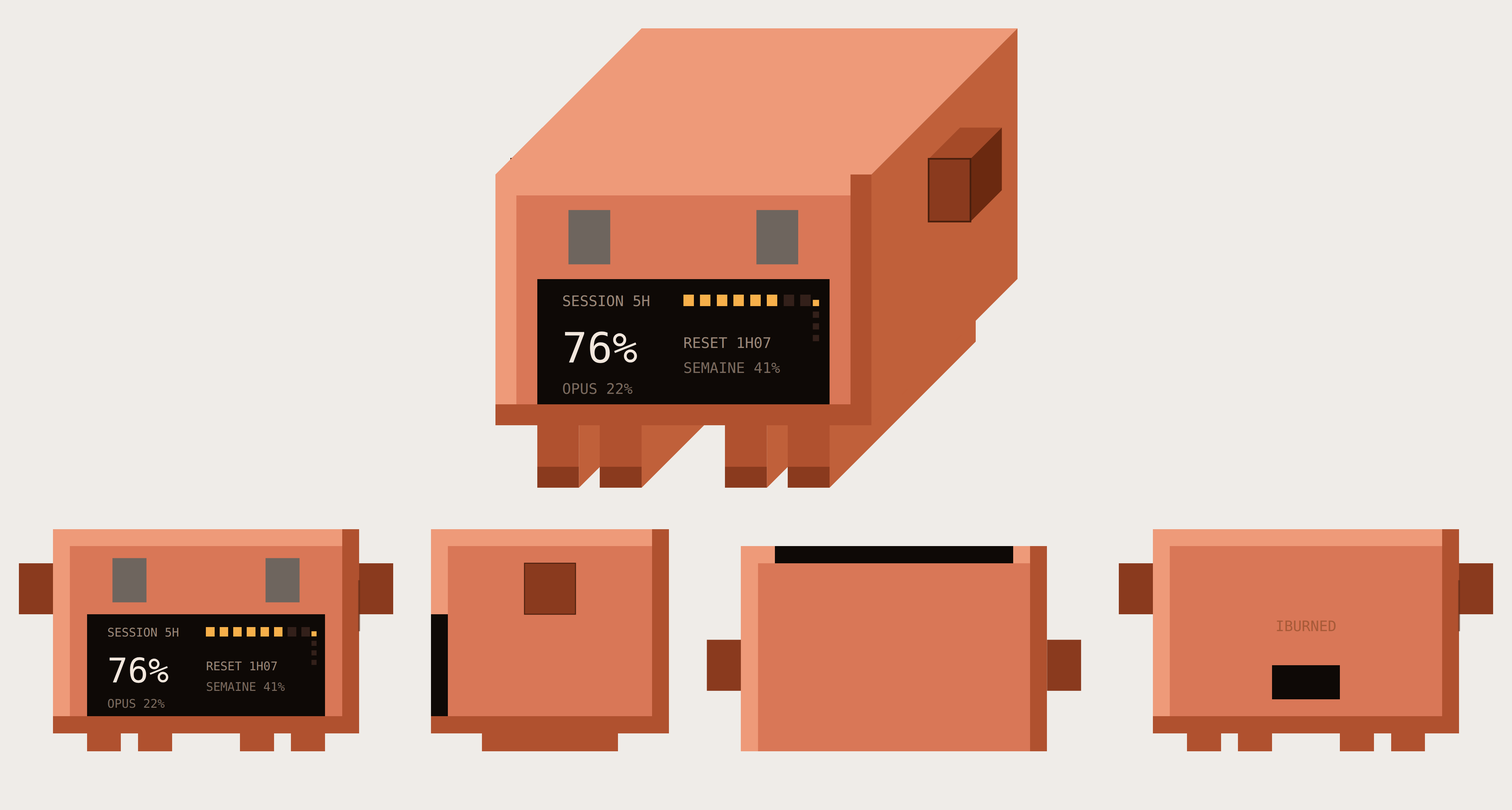
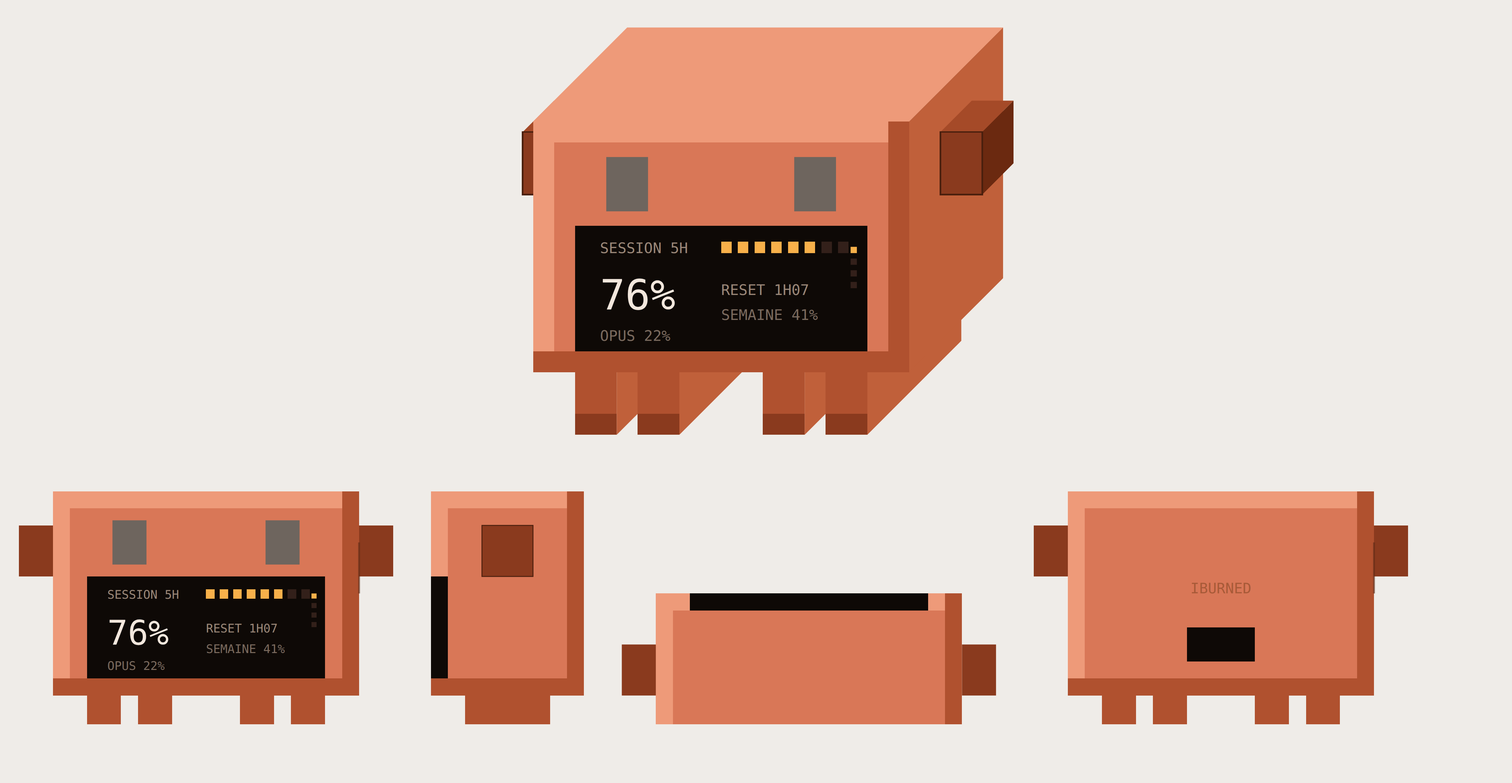
Réduit la profondeur du boîtier d'un tiers
La profondeur passe de 14 à 9 cellules, soit 40 mm au lieu de 62.
Gabarit : 97 x 66 x 40 mm.

Effet de bord bienvenu : les ergots, toujours de 3 cellules, tombent
désormais pile au milieu de l'épaisseur sur un compte entier — 13,2 mm
devant, 13,2 mm derrière.

Profil, dessus, vue trois-quarts et vues de référence PNG régénérés.

Claude-Session: https://claude.ai/code/session_01T2Dn2UuCsd1vZtre48fBsz

diff --git a/design/boitier/ecran-ventre.html b/design/boitier/ecran-ventre.html
@@ -265,7 +265,7 @@
       <div><dt class="mono">Planche</dt><dd>03 / 03</dd></div>
       <div><dt class="mono">Nature</dt><dd>Direction retenue</dd></div>
       <div><dt class="mono">Trame</dt><dd>22 × 15 px</dd></div>
-      <div><dt class="mono">Gabarit</dt><dd>97 × 66 × 62 mm</dd></div>
+      <div><dt class="mono">Gabarit</dt><dd>97 × 66 × 40 mm</dd></div>
       <div><dt class="mono">Date</dt><dd>10.09.2026</dd></div>
       <div><dt class="mono">Étape suivante</dt><dd>Maquette blanche</dd></div>
     </dl>
@@ -280,7 +280,7 @@
 
   <figure class="stage hero">
     <svg class="render" viewBox="0 0 440 332" role="img" aria-label="Vue trois-quarts du boîtier : bloc terracotta à arêtes vives, deux yeux gris foncé en haut, grand écran occupant le bas de la face avant, quatre pattes courtes, deux ergots latéraux identiques.">
-      <polygon class="eye" points="82,260 173,169 199,169 108,260" fill="#EE9A79"/><polygon class="eye" points="108,260 199,169 199,208 108,299" fill="#C0603A"/><polygon class="eye" points="121,260 212,169 238,169 147,260" fill="#EE9A79"/><polygon class="eye" points="147,260 238,169 238,208 147,299" fill="#C0603A"/><polygon class="eye" points="199,260 290,169 316,169 225,260" fill="#EE9A79"/><polygon class="eye" points="225,260 316,169 316,208 225,299" fill="#C0603A"/><polygon class="eye" points="238,260 329,169 355,169 264,260" fill="#EE9A79"/><polygon class="eye" points="264,260 355,169 355,208 264,299" fill="#C0603A"/><polygon class="eye" points="65.75,94.25 85.25,74.75 111.25,74.75 91.75,94.25" fill="#A54A28"/><polygon class="eye" points="91.75,94.25 111.25,74.75 111.25,113.75 91.75,133.25" fill="#6B2910"/><rect x="65.75" y="94.25" width="26" height="39" fill="#8A3A1E" stroke="#4A1F0D"/><polygon class="eye" points="56,104 147,13 381,13 290,104" fill="#EE9A79"/><polygon class="eye" points="290,104 381,13 381,169 290,260" fill="#C0603A"/><rect x="56" y="104" width="221" height="13" fill="#EE9A79"/><rect x="277" y="104" width="13" height="13" fill="#B0512F"/><rect x="56" y="117" width="13" height="13" fill="#EE9A79"/><rect x="69" y="117" width="208" height="13" fill="#D97757"/><rect x="277" y="117" width="13" height="13" fill="#B0512F"/><rect x="56" y="130" width="13" height="13" fill="#EE9A79"/><rect x="69" y="130" width="208" height="13" fill="#D97757"/><rect x="277" y="130" width="13" height="13" fill="#B0512F"/><rect x="56" y="143" width="13" height="13" fill="#EE9A79"/><rect x="69" y="143" width="208" height="13" fill="#D97757"/><rect x="277" y="143" width="13" height="13" fill="#B0512F"/><rect x="56" y="156" width="13" height="13" fill="#EE9A79"/><rect x="69" y="156" width="208" height="13" fill="#D97757"/><rect x="277" y="156" width="13" height="13" fill="#B0512F"/><rect x="56" y="169" width="13" height="13" fill="#EE9A79"/><rect x="69" y="169" width="13" height="13" fill="#D97757"/><rect x="82" y="169" width="182" height="13" fill="#0E0906"/><rect x="264" y="169" width="13" height="13" fill="#D97757"/><rect x="277" y="169" width="13" height="13" fill="#B0512F"/><rect x="56" y="182" width="13" height="13" fill="#EE9A79"/><rect x="69" y="182" width="13" height="13" fill="#D97757"/><rect x="82" y="182" width="182" height="13" fill="#0E0906"/><rect x="264" y="182" width="13" height="13" fill="#D97757"/><rect x="277" y="182" width="13" height="13" fill="#B0512F"/><rect x="56" y="195" width="13" height="13" fill="#EE9A79"/><rect x="69" y="195" width="13" height="13" fill="#D97757"/><rect x="82" y="195" width="182" height="13" fill="#0E0906"/><rect x="264" y="195" width="13" height="13" fill="#D97757"/><rect x="277" y="195" width="13" height="13" fill="#B0512F"/><rect x="56" y="208" width="13" height="13" fill="#EE9A79"/><rect x="69" y="208" width="13" height="13" fill="#D97757"/><rect x="82" y="208" width="182" height="13" fill="#0E0906"/><rect x="264" y="208" width="13" height="13" fill="#D97757"/><rect x="277" y="208" width="13" height="13" fill="#B0512F"/><rect x="56" y="221" width="13" height="13" fill="#EE9A79"/><rect x="69" y="221" width="13" height="13" fill="#D97757"/><rect x="82" y="221" width="182" height="13" fill="#0E0906"/><rect x="264" y="221" width="13" height="13" fill="#D97757"/><rect x="277" y="221" width="13" height="13" fill="#B0512F"/><rect x="56" y="234" width="13" height="13" fill="#EE9A79"/><rect x="69" y="234" width="13" height="13" fill="#D97757"/><rect x="82" y="234" width="182" height="13" fill="#0E0906"/><rect x="264" y="234" width="13" height="13" fill="#D97757"/><rect x="277" y="234" width="13" height="13" fill="#B0512F"/><rect x="56" y="247" width="234" height="13" fill="#B0512F"/><rect x="82" y="260" width="26" height="13" fill="#B0512F"/><rect x="121" y="260" width="26" height="13" fill="#B0512F"/><rect x="199" y="260" width="26" height="13" fill="#B0512F"/><rect x="238" y="260" width="26" height="13" fill="#B0512F"/><rect x="82" y="273" width="26" height="13" fill="#B0512F"/><rect x="121" y="273" width="26" height="13" fill="#B0512F"/><rect x="199" y="273" width="26" height="13" fill="#B0512F"/><rect x="238" y="273" width="26" height="13" fill="#B0512F"/><rect x="82" y="286" width="26" height="13" fill="#8A3A1E"/><rect x="121" y="286" width="26" height="13" fill="#8A3A1E"/><rect x="199" y="286" width="26" height="13" fill="#8A3A1E"/><rect x="238" y="286" width="26" height="13" fill="#8A3A1E"/><polygon class="eye" points="325.75,94.25 345.25,74.75 371.25,74.75 351.75,94.25" fill="#A54A28"/><polygon class="eye" points="351.75,94.25 371.25,74.75 371.25,113.75 351.75,133.25" fill="#6B2910"/><rect x="325.75" y="94.25" width="26" height="39" fill="#8A3A1E" stroke="#4A1F0D"/><rect class="eye" x="101.5" y="126.1" width="26" height="33.8" fill="#6E655E"/><rect class="eye" x="218.5" y="126.1" width="26" height="33.8" fill="#6E655E"/><text class="px" x="97.6" y="185.9" font-size="9.1" fill="#9A8778" text-anchor="start">SESSION 5H</text><text class="px" x="97.6" y="221" font-size="26" fill="#F2E7DD" text-anchor="start">76%</text><rect x="173" y="178.75" width="6.5" height="7.15" fill="#F7B04A"/><rect x="183.4" y="178.75" width="6.5" height="7.15" fill="#F7B04A"/><rect x="193.8" y="178.75" width="6.5" height="7.15" fill="#F7B04A"/><rect x="204.2" y="178.75" width="6.5" height="7.15" fill="#F7B04A"/><rect x="214.6" y="178.75" width="6.5" height="7.15" fill="#F7B04A"/><rect x="225" y="178.75" width="6.5" height="7.15" fill="#F7B04A"/><rect x="235.4" y="178.75" width="6.5" height="7.15" fill="#33201A"/><rect x="245.8" y="178.75" width="6.5" height="7.15" fill="#33201A"/><text class="px" x="173" y="211.9" font-size="9.1" fill="#9A8778" text-anchor="start">RESET 1H07</text><text class="px" x="173" y="227.5" font-size="9.1" fill="#7A6A5E" text-anchor="start">SEMAINE 41%</text><text class="px" x="97.6" y="240.5" font-size="9.1" fill="#7A6A5E" text-anchor="start">OPUS 22%</text><rect class="eye" x="253.6" y="182" width="3.9" height="3.9" fill="#F7B04A"/><rect class="eye" x="253.6" y="189.28" width="3.9" height="3.9" fill="#33201A"/><rect class="eye" x="253.6" y="196.56" width="3.9" height="3.9" fill="#33201A"/><rect class="eye" x="253.6" y="203.84" width="3.9" height="3.9" fill="#33201A"/>
+      <polygon class="eye" points="100,254 158.5,195.5 184.5,195.5 126,254" fill="#EE9A79"/><polygon class="eye" points="126,254 184.5,195.5 184.5,234.5 126,293" fill="#C0603A"/><polygon class="eye" points="139,254 197.5,195.5 223.5,195.5 165,254" fill="#EE9A79"/><polygon class="eye" points="165,254 223.5,195.5 223.5,234.5 165,293" fill="#C0603A"/><polygon class="eye" points="217,254 275.5,195.5 301.5,195.5 243,254" fill="#EE9A79"/><polygon class="eye" points="243,254 301.5,195.5 301.5,234.5 243,293" fill="#C0603A"/><polygon class="eye" points="256,254 314.5,195.5 340.5,195.5 282,254" fill="#EE9A79"/><polygon class="eye" points="282,254 340.5,195.5 340.5,234.5 282,293" fill="#C0603A"/><polygon class="eye" points="67.5,104.5 87,85 113,85 93.5,104.5" fill="#A54A28"/><polygon class="eye" points="93.5,104.5 113,85 113,124 93.5,143.5" fill="#6B2910"/><rect x="67.5" y="104.5" width="26" height="39" fill="#8A3A1E" stroke="#4A1F0D"/><polygon class="eye" points="74,98 132.5,39.5 366.5,39.5 308,98" fill="#EE9A79"/><polygon class="eye" points="308,98 366.5,39.5 366.5,195.5 308,254" fill="#C0603A"/><rect x="74" y="98" width="221" height="13" fill="#EE9A79"/><rect x="295" y="98" width="13" height="13" fill="#B0512F"/><rect x="74" y="111" width="13" height="13" fill="#EE9A79"/><rect x="87" y="111" width="208" height="13" fill="#D97757"/><rect x="295" y="111" width="13" height="13" fill="#B0512F"/><rect x="74" y="124" width="13" height="13" fill="#EE9A79"/><rect x="87" y="124" width="208" height="13" fill="#D97757"/><rect x="295" y="124" width="13" height="13" fill="#B0512F"/><rect x="74" y="137" width="13" height="13" fill="#EE9A79"/><rect x="87" y="137" width="208" height="13" fill="#D97757"/><rect x="295" y="137" width="13" height="13" fill="#B0512F"/><rect x="74" y="150" width="13" height="13" fill="#EE9A79"/><rect x="87" y="150" width="208" height="13" fill="#D97757"/><rect x="295" y="150" width="13" height="13" fill="#B0512F"/><rect x="74" y="163" width="13" height="13" fill="#EE9A79"/><rect x="87" y="163" width="13" height="13" fill="#D97757"/><rect x="100" y="163" width="182" height="13" fill="#0E0906"/><rect x="282" y="163" width="13" height="13" fill="#D97757"/><rect x="295" y="163" width="13" height="13" fill="#B0512F"/><rect x="74" y="176" width="13" height="13" fill="#EE9A79"/><rect x="87" y="176" width="13" height="13" fill="#D97757"/><rect x="100" y="176" width="182" height="13" fill="#0E0906"/><rect x="282" y="176" width="13" height="13" fill="#D97757"/><rect x="295" y="176" width="13" height="13" fill="#B0512F"/><rect x="74" y="189" width="13" height="13" fill="#EE9A79"/><rect x="87" y="189" width="13" height="13" fill="#D97757"/><rect x="100" y="189" width="182" height="13" fill="#0E0906"/><rect x="282" y="189" width="13" height="13" fill="#D97757"/><rect x="295" y="189" width="13" height="13" fill="#B0512F"/><rect x="74" y="202" width="13" height="13" fill="#EE9A79"/><rect x="87" y="202" width="13" height="13" fill="#D97757"/><rect x="100" y="202" width="182" height="13" fill="#0E0906"/><rect x="282" y="202" width="13" height="13" fill="#D97757"/><rect x="295" y="202" width="13" height="13" fill="#B0512F"/><rect x="74" y="215" width="13" height="13" fill="#EE9A79"/><rect x="87" y="215" width="13" height="13" fill="#D97757"/><rect x="100" y="215" width="182" height="13" fill="#0E0906"/><rect x="282" y="215" width="13" height="13" fill="#D97757"/><rect x="295" y="215" width="13" height="13" fill="#B0512F"/><rect x="74" y="228" width="13" height="13" fill="#EE9A79"/><rect x="87" y="228" width="13" height="13" fill="#D97757"/><rect x="100" y="228" width="182" height="13" fill="#0E0906"/><rect x="282" y="228" width="13" height="13" fill="#D97757"/><rect x="295" y="228" width="13" height="13" fill="#B0512F"/><rect x="74" y="241" width="234" height="13" fill="#B0512F"/><rect x="100" y="254" width="26" height="13" fill="#B0512F"/><rect x="139" y="254" width="26" height="13" fill="#B0512F"/><rect x="217" y="254" width="26" height="13" fill="#B0512F"/><rect x="256" y="254" width="26" height="13" fill="#B0512F"/><rect x="100" y="267" width="26" height="13" fill="#B0512F"/><rect x="139" y="267" width="26" height="13" fill="#B0512F"/><rect x="217" y="267" width="26" height="13" fill="#B0512F"/><rect x="256" y="267" width="26" height="13" fill="#B0512F"/><rect x="100" y="280" width="26" height="13" fill="#8A3A1E"/><rect x="139" y="280" width="26" height="13" fill="#8A3A1E"/><rect x="217" y="280" width="26" height="13" fill="#8A3A1E"/><rect x="256" y="280" width="26" height="13" fill="#8A3A1E"/><polygon class="eye" points="327.5,104.5 347,85 373,85 353.5,104.5" fill="#A54A28"/><polygon class="eye" points="353.5,104.5 373,85 373,124 353.5,143.5" fill="#6B2910"/><rect x="327.5" y="104.5" width="26" height="39" fill="#8A3A1E" stroke="#4A1F0D"/><rect class="eye" x="119.5" y="120.1" width="26" height="33.8" fill="#6E655E"/><rect class="eye" x="236.5" y="120.1" width="26" height="33.8" fill="#6E655E"/><text class="px" x="115.6" y="179.9" font-size="9.1" fill="#9A8778" text-anchor="start">SESSION 5H</text><text class="px" x="115.6" y="215" font-size="26" fill="#F2E7DD" text-anchor="start">76%</text><rect x="191" y="172.75" width="6.5" height="7.15" fill="#F7B04A"/><rect x="201.4" y="172.75" width="6.5" height="7.15" fill="#F7B04A"/><rect x="211.8" y="172.75" width="6.5" height="7.15" fill="#F7B04A"/><rect x="222.2" y="172.75" width="6.5" height="7.15" fill="#F7B04A"/><rect x="232.6" y="172.75" width="6.5" height="7.15" fill="#F7B04A"/><rect x="243" y="172.75" width="6.5" height="7.15" fill="#F7B04A"/><rect x="253.4" y="172.75" width="6.5" height="7.15" fill="#33201A"/><rect x="263.8" y="172.75" width="6.5" height="7.15" fill="#33201A"/><text class="px" x="191" y="205.9" font-size="9.1" fill="#9A8778" text-anchor="start">RESET 1H07</text><text class="px" x="191" y="221.5" font-size="9.1" fill="#7A6A5E" text-anchor="start">SEMAINE 41%</text><text class="px" x="115.6" y="234.5" font-size="9.1" fill="#7A6A5E" text-anchor="start">OPUS 22%</text><rect class="eye" x="271.6" y="176" width="3.9" height="3.9" fill="#F7B04A"/><rect class="eye" x="271.6" y="183.28" width="3.9" height="3.9" fill="#33201A"/><rect class="eye" x="271.6" y="190.56" width="3.9" height="3.9" fill="#33201A"/><rect class="eye" x="271.6" y="197.84" width="3.9" height="3.9" fill="#33201A"/>
     </svg>
     <figcaption class="caption mono">
       <span>Perspective cavalière 45° · profondeur réduite de moitié</span>
@@ -314,7 +314,7 @@
           <div><dt>Écran</dt><dd>14 × 6 cellules · 62 × 26 mm</dd></div>
           <div><dt>Ergots</dt><dd><b>Carrés</b> 3 × 3 cellules · 13 mm, centrés dans l’épaisseur</dd></div>
           <div><dt>Commande</dt><dd>Ergot droit, identique au gauche</dd></div>
-          <div><dt>Gabarit</dt><dd>97 × 66 × 62 mm · trame 4,4 mm</dd></div>
+          <div><dt>Gabarit</dt><dd>97 × 66 × 40 mm · trame 4,4 mm</dd></div>
           <div class="risk"><dt>Réserve</dt><dd>Le visage se réduit à deux diodes posées au-dessus d’un écran</dd></div>
         </dl>
       </div>
@@ -331,7 +331,7 @@
     </p>
     <div class="scroller">
       <svg class="ortho-svg" viewBox="0 0 900 214" role="img" aria-label="Quatre vues orthographiques du boîtier à la même échelle : face avec yeux et écran, profil droit montrant l’ergot-bouton et la tranche de l’écran, dessus avec les deux ergots, dos avec la prise USB-C et la sérigraphie.">
-        <rect x="38" y="14" width="153" height="9" fill="#EE9A79"/><rect x="191" y="14" width="9" height="9" fill="#B0512F"/><rect x="38" y="23" width="9" height="9" fill="#EE9A79"/><rect x="47" y="23" width="144" height="9" fill="#D97757"/><rect x="191" y="23" width="9" height="9" fill="#B0512F"/><rect x="20" y="32" width="18" height="9" fill="#8A3A1E"/><rect x="38" y="32" width="9" height="9" fill="#EE9A79"/><rect x="47" y="32" width="144" height="9" fill="#D97757"/><rect x="191" y="32" width="9" height="9" fill="#B0512F"/><rect x="200" y="32" width="18" height="9" fill="#8A3A1E"/><rect x="20" y="41" width="18" height="9" fill="#8A3A1E"/><rect x="38" y="41" width="9" height="9" fill="#EE9A79"/><rect x="47" y="41" width="144" height="9" fill="#D97757"/><rect x="191" y="41" width="9" height="9" fill="#B0512F"/><rect x="200" y="41" width="18" height="9" fill="#8A3A1E"/><rect x="20" y="50" width="18" height="9" fill="#8A3A1E"/><rect x="38" y="50" width="9" height="9" fill="#EE9A79"/><rect x="47" y="50" width="144" height="9" fill="#D97757"/><rect x="191" y="50" width="9" height="9" fill="#B0512F"/><rect x="200" y="50" width="18" height="9" fill="#8A3A1E"/><rect x="38" y="59" width="9" height="9" fill="#EE9A79"/><rect x="47" y="59" width="9" height="9" fill="#D97757"/><rect x="56" y="59" width="126" height="9" fill="#0E0906"/><rect x="182" y="59" width="9" height="9" fill="#D97757"/><rect x="191" y="59" width="9" height="9" fill="#B0512F"/><rect x="38" y="68" width="9" height="9" fill="#EE9A79"/><rect x="47" y="68" width="9" height="9" fill="#D97757"/><rect x="56" y="68" width="126" height="9" fill="#0E0906"/><rect x="182" y="68" width="9" height="9" fill="#D97757"/><rect x="191" y="68" width="9" height="9" fill="#B0512F"/><rect x="38" y="77" width="9" height="9" fill="#EE9A79"/><rect x="47" y="77" width="9" height="9" fill="#D97757"/><rect x="56" y="77" width="126" height="9" fill="#0E0906"/><rect x="182" y="77" width="9" height="9" fill="#D97757"/><rect x="191" y="77" width="9" height="9" fill="#B0512F"/><rect x="38" y="86" width="9" height="9" fill="#EE9A79"/><rect x="47" y="86" width="9" height="9" fill="#D97757"/><rect x="56" y="86" width="126" height="9" fill="#0E0906"/><rect x="182" y="86" width="9" height="9" fill="#D97757"/><rect x="191" y="86" width="9" height="9" fill="#B0512F"/><rect x="38" y="95" width="9" height="9" fill="#EE9A79"/><rect x="47" y="95" width="9" height="9" fill="#D97757"/><rect x="56" y="95" width="126" height="9" fill="#0E0906"/><rect x="182" y="95" width="9" height="9" fill="#D97757"/><rect x="191" y="95" width="9" height="9" fill="#B0512F"/><rect x="38" y="104" width="9" height="9" fill="#EE9A79"/><rect x="47" y="104" width="9" height="9" fill="#D97757"/><rect x="56" y="104" width="126" height="9" fill="#0E0906"/><rect x="182" y="104" width="9" height="9" fill="#D97757"/><rect x="191" y="104" width="9" height="9" fill="#B0512F"/><rect x="38" y="113" width="162" height="9" fill="#B0512F"/><rect x="56" y="122" width="18" height="9" fill="#B0512F"/><rect x="83" y="122" width="18" height="9" fill="#B0512F"/><rect x="137" y="122" width="18" height="9" fill="#B0512F"/><rect x="164" y="122" width="18" height="9" fill="#B0512F"/><rect x="56" y="131" width="18" height="9" fill="#B0512F"/><rect x="83" y="131" width="18" height="9" fill="#B0512F"/><rect x="137" y="131" width="18" height="9" fill="#B0512F"/><rect x="164" y="131" width="18" height="9" fill="#B0512F"/><rect x="56" y="140" width="18" height="9" fill="#8A3A1E"/><rect x="83" y="140" width="18" height="9" fill="#8A3A1E"/><rect x="137" y="140" width="18" height="9" fill="#8A3A1E"/><rect x="164" y="140" width="18" height="9" fill="#8A3A1E"/><rect class="eye" x="199.505" y="41" width="0.99" height="27" fill="#5E2A16" fill-opacity=".62"/><rect class="eye" x="69.5" y="29.3" width="18" height="23.4" fill="#6E655E"/><rect class="eye" x="150.5" y="29.3" width="18" height="23.4" fill="#6E655E"/><text class="sm" x="119" y="179" font-size="11" letter-spacing="1.5" fill="#AC9C91" text-anchor="middle">FACE</text><rect x="264" y="14" width="117" height="9" fill="#EE9A79"/><rect x="381" y="14" width="9" height="9" fill="#B0512F"/><rect x="264" y="23" width="9" height="9" fill="#EE9A79"/><rect x="273" y="23" width="108" height="9" fill="#D97757"/><rect x="381" y="23" width="9" height="9" fill="#B0512F"/><rect x="264" y="32" width="9" height="9" fill="#EE9A79"/><rect x="273" y="32" width="108" height="9" fill="#D97757"/><rect x="381" y="32" width="9" height="9" fill="#B0512F"/><rect x="264" y="41" width="9" height="9" fill="#EE9A79"/><rect x="273" y="41" width="108" height="9" fill="#D97757"/><rect x="381" y="41" width="9" height="9" fill="#B0512F"/><rect x="264" y="50" width="9" height="9" fill="#EE9A79"/><rect x="273" y="50" width="108" height="9" fill="#D97757"/><rect x="381" y="50" width="9" height="9" fill="#B0512F"/><rect x="264" y="59" width="9" height="9" fill="#0E0906"/><rect x="273" y="59" width="108" height="9" fill="#D97757"/><rect x="381" y="59" width="9" height="9" fill="#B0512F"/><rect x="264" y="68" width="9" height="9" fill="#0E0906"/><rect x="273" y="68" width="108" height="9" fill="#D97757"/><rect x="381" y="68" width="9" height="9" fill="#B0512F"/><rect x="264" y="77" width="9" height="9" fill="#0E0906"/><rect x="273" y="77" width="108" height="9" fill="#D97757"/><rect x="381" y="77" width="9" height="9" fill="#B0512F"/><rect x="264" y="86" width="9" height="9" fill="#0E0906"/><rect x="273" y="86" width="108" height="9" fill="#D97757"/><rect x="381" y="86" width="9" height="9" fill="#B0512F"/><rect x="264" y="95" width="9" height="9" fill="#0E0906"/><rect x="273" y="95" width="108" height="9" fill="#D97757"/><rect x="381" y="95" width="9" height="9" fill="#B0512F"/><rect x="264" y="104" width="9" height="9" fill="#0E0906"/><rect x="273" y="104" width="108" height="9" fill="#D97757"/><rect x="381" y="104" width="9" height="9" fill="#B0512F"/><rect x="264" y="113" width="126" height="9" fill="#B0512F"/><rect x="291" y="122" width="72" height="9" fill="#B0512F"/><rect x="291" y="131" width="72" height="9" fill="#B0512F"/><rect x="291" y="140" width="72" height="9" fill="#8A3A1E"/><rect class="eye" x="313.5" y="32" width="27" height="27" fill="#8A3A1E" stroke="#4A1F0D"/><text class="sm" x="327" y="179" font-size="11" letter-spacing="1.5" fill="#AC9C91" text-anchor="middle">PROFIL DROIT</text><rect x="454" y="23" width="18" height="9" fill="#EE9A79"/><rect x="472" y="23" width="126" height="9" fill="#0E0906"/><rect x="598" y="23" width="9" height="9" fill="#EE9A79"/><rect x="607" y="23" width="9" height="9" fill="#B0512F"/><rect x="454" y="32" width="9" height="9" fill="#EE9A79"/><rect x="463" y="32" width="144" height="9" fill="#D97757"/><rect x="607" y="32" width="9" height="9" fill="#B0512F"/><rect x="454" y="41" width="9" height="9" fill="#EE9A79"/><rect x="463" y="41" width="144" height="9" fill="#D97757"/><rect x="607" y="41" width="9" height="9" fill="#B0512F"/><rect x="454" y="50" width="9" height="9" fill="#EE9A79"/><rect x="463" y="50" width="144" height="9" fill="#D97757"/><rect x="607" y="50" width="9" height="9" fill="#B0512F"/><rect x="454" y="59" width="9" height="9" fill="#EE9A79"/><rect x="463" y="59" width="144" height="9" fill="#D97757"/><rect x="607" y="59" width="9" height="9" fill="#B0512F"/><rect x="454" y="68" width="9" height="9" fill="#EE9A79"/><rect x="463" y="68" width="144" height="9" fill="#D97757"/><rect x="607" y="68" width="9" height="9" fill="#B0512F"/><rect x="454" y="77" width="9" height="9" fill="#EE9A79"/><rect x="463" y="77" width="144" height="9" fill="#D97757"/><rect x="607" y="77" width="9" height="9" fill="#B0512F"/><rect x="454" y="86" width="9" height="9" fill="#EE9A79"/><rect x="463" y="86" width="144" height="9" fill="#D97757"/><rect x="607" y="86" width="9" height="9" fill="#B0512F"/><rect x="454" y="95" width="9" height="9" fill="#EE9A79"/><rect x="463" y="95" width="144" height="9" fill="#D97757"/><rect x="607" y="95" width="9" height="9" fill="#B0512F"/><rect x="454" y="104" width="9" height="9" fill="#EE9A79"/><rect x="463" y="104" width="144" height="9" fill="#D97757"/><rect x="607" y="104" width="9" height="9" fill="#B0512F"/><rect x="454" y="113" width="9" height="9" fill="#EE9A79"/><rect x="463" y="113" width="144" height="9" fill="#D97757"/><rect x="607" y="113" width="9" height="9" fill="#B0512F"/><rect x="454" y="122" width="9" height="9" fill="#EE9A79"/><rect x="463" y="122" width="144" height="9" fill="#D97757"/><rect x="607" y="122" width="9" height="9" fill="#B0512F"/><rect x="454" y="131" width="9" height="9" fill="#EE9A79"/><rect x="463" y="131" width="144" height="9" fill="#D97757"/><rect x="607" y="131" width="9" height="9" fill="#B0512F"/><rect x="454" y="140" width="162" height="9" fill="#B0512F"/><rect class="eye" x="436" y="72.5" width="18" height="27" fill="#8A3A1E"/><rect class="eye" x="616" y="72.5" width="18" height="27" fill="#8A3A1E"/><text class="sm" x="535" y="179" font-size="11" letter-spacing="1.5" fill="#AC9C91" text-anchor="middle">DESSUS</text><rect x="698" y="14" width="153" height="9" fill="#EE9A79"/><rect x="851" y="14" width="9" height="9" fill="#B0512F"/><rect x="698" y="23" width="9" height="9" fill="#EE9A79"/><rect x="707" y="23" width="144" height="9" fill="#D97757"/><rect x="851" y="23" width="9" height="9" fill="#B0512F"/><rect x="680" y="32" width="18" height="9" fill="#8A3A1E"/><rect x="698" y="32" width="9" height="9" fill="#EE9A79"/><rect x="707" y="32" width="144" height="9" fill="#D97757"/><rect x="851" y="32" width="9" height="9" fill="#B0512F"/><rect x="860" y="32" width="18" height="9" fill="#8A3A1E"/><rect x="680" y="41" width="18" height="9" fill="#8A3A1E"/><rect x="698" y="41" width="9" height="9" fill="#EE9A79"/><rect x="707" y="41" width="144" height="9" fill="#D97757"/><rect x="851" y="41" width="9" height="9" fill="#B0512F"/><rect x="860" y="41" width="18" height="9" fill="#8A3A1E"/><rect x="680" y="50" width="18" height="9" fill="#8A3A1E"/><rect x="698" y="50" width="9" height="9" fill="#EE9A79"/><rect x="707" y="50" width="144" height="9" fill="#D97757"/><rect x="851" y="50" width="9" height="9" fill="#B0512F"/><rect x="860" y="50" width="18" height="9" fill="#8A3A1E"/><rect x="698" y="59" width="9" height="9" fill="#EE9A79"/><rect x="707" y="59" width="144" height="9" fill="#D97757"/><rect x="851" y="59" width="9" height="9" fill="#B0512F"/><rect x="698" y="68" width="9" height="9" fill="#EE9A79"/><rect x="707" y="68" width="144" height="9" fill="#D97757"/><rect x="851" y="68" width="9" height="9" fill="#B0512F"/><rect x="698" y="77" width="9" height="9" fill="#EE9A79"/><rect x="707" y="77" width="144" height="9" fill="#D97757"/><rect x="851" y="77" width="9" height="9" fill="#B0512F"/><rect x="698" y="86" width="9" height="9" fill="#EE9A79"/><rect x="707" y="86" width="54" height="9" fill="#D97757"/><rect x="761" y="86" width="36" height="9" fill="#0E0906"/><rect x="797" y="86" width="54" height="9" fill="#D97757"/><rect x="851" y="86" width="9" height="9" fill="#B0512F"/><rect x="698" y="95" width="9" height="9" fill="#EE9A79"/><rect x="707" y="95" width="54" height="9" fill="#D97757"/><rect x="761" y="95" width="36" height="9" fill="#0E0906"/><rect x="797" y="95" width="54" height="9" fill="#D97757"/><rect x="851" y="95" width="9" height="9" fill="#B0512F"/><rect x="698" y="104" width="9" height="9" fill="#EE9A79"/><rect x="707" y="104" width="144" height="9" fill="#D97757"/><rect x="851" y="104" width="9" height="9" fill="#B0512F"/><rect x="698" y="113" width="162" height="9" fill="#B0512F"/><rect x="716" y="122" width="18" height="9" fill="#B0512F"/><rect x="743" y="122" width="18" height="9" fill="#B0512F"/><rect x="797" y="122" width="18" height="9" fill="#B0512F"/><rect x="824" y="122" width="18" height="9" fill="#B0512F"/><rect x="716" y="131" width="18" height="9" fill="#B0512F"/><rect x="743" y="131" width="18" height="9" fill="#B0512F"/><rect x="797" y="131" width="18" height="9" fill="#B0512F"/><rect x="824" y="131" width="18" height="9" fill="#B0512F"/><rect x="716" y="140" width="18" height="9" fill="#8A3A1E"/><rect x="743" y="140" width="18" height="9" fill="#8A3A1E"/><rect x="797" y="140" width="18" height="9" fill="#8A3A1E"/><rect x="824" y="140" width="18" height="9" fill="#8A3A1E"/><text class="px" x="779" y="68" font-size="7.65" fill="#A85A38" text-anchor="middle">IBURNED</text><text class="sm" x="779" y="179" font-size="11" letter-spacing="1.5" fill="#AC9C91" text-anchor="middle">DOS</text>
+        <rect x="38" y="14" width="153" height="9" fill="#EE9A79"/><rect x="191" y="14" width="9" height="9" fill="#B0512F"/><rect x="38" y="23" width="9" height="9" fill="#EE9A79"/><rect x="47" y="23" width="144" height="9" fill="#D97757"/><rect x="191" y="23" width="9" height="9" fill="#B0512F"/><rect x="20" y="32" width="18" height="9" fill="#8A3A1E"/><rect x="38" y="32" width="9" height="9" fill="#EE9A79"/><rect x="47" y="32" width="144" height="9" fill="#D97757"/><rect x="191" y="32" width="9" height="9" fill="#B0512F"/><rect x="200" y="32" width="18" height="9" fill="#8A3A1E"/><rect x="20" y="41" width="18" height="9" fill="#8A3A1E"/><rect x="38" y="41" width="9" height="9" fill="#EE9A79"/><rect x="47" y="41" width="144" height="9" fill="#D97757"/><rect x="191" y="41" width="9" height="9" fill="#B0512F"/><rect x="200" y="41" width="18" height="9" fill="#8A3A1E"/><rect x="20" y="50" width="18" height="9" fill="#8A3A1E"/><rect x="38" y="50" width="9" height="9" fill="#EE9A79"/><rect x="47" y="50" width="144" height="9" fill="#D97757"/><rect x="191" y="50" width="9" height="9" fill="#B0512F"/><rect x="200" y="50" width="18" height="9" fill="#8A3A1E"/><rect x="38" y="59" width="9" height="9" fill="#EE9A79"/><rect x="47" y="59" width="9" height="9" fill="#D97757"/><rect x="56" y="59" width="126" height="9" fill="#0E0906"/><rect x="182" y="59" width="9" height="9" fill="#D97757"/><rect x="191" y="59" width="9" height="9" fill="#B0512F"/><rect x="38" y="68" width="9" height="9" fill="#EE9A79"/><rect x="47" y="68" width="9" height="9" fill="#D97757"/><rect x="56" y="68" width="126" height="9" fill="#0E0906"/><rect x="182" y="68" width="9" height="9" fill="#D97757"/><rect x="191" y="68" width="9" height="9" fill="#B0512F"/><rect x="38" y="77" width="9" height="9" fill="#EE9A79"/><rect x="47" y="77" width="9" height="9" fill="#D97757"/><rect x="56" y="77" width="126" height="9" fill="#0E0906"/><rect x="182" y="77" width="9" height="9" fill="#D97757"/><rect x="191" y="77" width="9" height="9" fill="#B0512F"/><rect x="38" y="86" width="9" height="9" fill="#EE9A79"/><rect x="47" y="86" width="9" height="9" fill="#D97757"/><rect x="56" y="86" width="126" height="9" fill="#0E0906"/><rect x="182" y="86" width="9" height="9" fill="#D97757"/><rect x="191" y="86" width="9" height="9" fill="#B0512F"/><rect x="38" y="95" width="9" height="9" fill="#EE9A79"/><rect x="47" y="95" width="9" height="9" fill="#D97757"/><rect x="56" y="95" width="126" height="9" fill="#0E0906"/><rect x="182" y="95" width="9" height="9" fill="#D97757"/><rect x="191" y="95" width="9" height="9" fill="#B0512F"/><rect x="38" y="104" width="9" height="9" fill="#EE9A79"/><rect x="47" y="104" width="9" height="9" fill="#D97757"/><rect x="56" y="104" width="126" height="9" fill="#0E0906"/><rect x="182" y="104" width="9" height="9" fill="#D97757"/><rect x="191" y="104" width="9" height="9" fill="#B0512F"/><rect x="38" y="113" width="162" height="9" fill="#B0512F"/><rect x="56" y="122" width="18" height="9" fill="#B0512F"/><rect x="83" y="122" width="18" height="9" fill="#B0512F"/><rect x="137" y="122" width="18" height="9" fill="#B0512F"/><rect x="164" y="122" width="18" height="9" fill="#B0512F"/><rect x="56" y="131" width="18" height="9" fill="#B0512F"/><rect x="83" y="131" width="18" height="9" fill="#B0512F"/><rect x="137" y="131" width="18" height="9" fill="#B0512F"/><rect x="164" y="131" width="18" height="9" fill="#B0512F"/><rect x="56" y="140" width="18" height="9" fill="#8A3A1E"/><rect x="83" y="140" width="18" height="9" fill="#8A3A1E"/><rect x="137" y="140" width="18" height="9" fill="#8A3A1E"/><rect x="164" y="140" width="18" height="9" fill="#8A3A1E"/><rect class="eye" x="199.505" y="41" width="0.99" height="27" fill="#5E2A16" fill-opacity=".62"/><rect class="eye" x="69.5" y="29.3" width="18" height="23.4" fill="#6E655E"/><rect class="eye" x="150.5" y="29.3" width="18" height="23.4" fill="#6E655E"/><text class="sm" x="119" y="179" font-size="11" letter-spacing="1.5" fill="#AC9C91" text-anchor="middle">FACE</text><rect x="264" y="14" width="72" height="9" fill="#EE9A79"/><rect x="336" y="14" width="9" height="9" fill="#B0512F"/><rect x="264" y="23" width="9" height="9" fill="#EE9A79"/><rect x="273" y="23" width="63" height="9" fill="#D97757"/><rect x="336" y="23" width="9" height="9" fill="#B0512F"/><rect x="264" y="32" width="9" height="9" fill="#EE9A79"/><rect x="273" y="32" width="63" height="9" fill="#D97757"/><rect x="336" y="32" width="9" height="9" fill="#B0512F"/><rect x="264" y="41" width="9" height="9" fill="#EE9A79"/><rect x="273" y="41" width="63" height="9" fill="#D97757"/><rect x="336" y="41" width="9" height="9" fill="#B0512F"/><rect x="264" y="50" width="9" height="9" fill="#EE9A79"/><rect x="273" y="50" width="63" height="9" fill="#D97757"/><rect x="336" y="50" width="9" height="9" fill="#B0512F"/><rect x="264" y="59" width="9" height="9" fill="#0E0906"/><rect x="273" y="59" width="63" height="9" fill="#D97757"/><rect x="336" y="59" width="9" height="9" fill="#B0512F"/><rect x="264" y="68" width="9" height="9" fill="#0E0906"/><rect x="273" y="68" width="63" height="9" fill="#D97757"/><rect x="336" y="68" width="9" height="9" fill="#B0512F"/><rect x="264" y="77" width="9" height="9" fill="#0E0906"/><rect x="273" y="77" width="63" height="9" fill="#D97757"/><rect x="336" y="77" width="9" height="9" fill="#B0512F"/><rect x="264" y="86" width="9" height="9" fill="#0E0906"/><rect x="273" y="86" width="63" height="9" fill="#D97757"/><rect x="336" y="86" width="9" height="9" fill="#B0512F"/><rect x="264" y="95" width="9" height="9" fill="#0E0906"/><rect x="273" y="95" width="63" height="9" fill="#D97757"/><rect x="336" y="95" width="9" height="9" fill="#B0512F"/><rect x="264" y="104" width="9" height="9" fill="#0E0906"/><rect x="273" y="104" width="63" height="9" fill="#D97757"/><rect x="336" y="104" width="9" height="9" fill="#B0512F"/><rect x="264" y="113" width="81" height="9" fill="#B0512F"/><rect x="282" y="122" width="45" height="9" fill="#B0512F"/><rect x="282" y="131" width="45" height="9" fill="#B0512F"/><rect x="282" y="140" width="45" height="9" fill="#8A3A1E"/><rect class="eye" x="291" y="32" width="27" height="27" fill="#8A3A1E" stroke="#4A1F0D"/><text class="sm" x="304.5" y="179" font-size="11" letter-spacing="1.5" fill="#AC9C91" text-anchor="middle">PROFIL DROIT</text><rect x="409" y="68" width="18" height="9" fill="#EE9A79"/><rect x="427" y="68" width="126" height="9" fill="#0E0906"/><rect x="553" y="68" width="9" height="9" fill="#EE9A79"/><rect x="562" y="68" width="9" height="9" fill="#B0512F"/><rect x="409" y="77" width="9" height="9" fill="#EE9A79"/><rect x="418" y="77" width="144" height="9" fill="#D97757"/><rect x="562" y="77" width="9" height="9" fill="#B0512F"/><rect x="409" y="86" width="9" height="9" fill="#EE9A79"/><rect x="418" y="86" width="144" height="9" fill="#D97757"/><rect x="562" y="86" width="9" height="9" fill="#B0512F"/><rect x="409" y="95" width="9" height="9" fill="#EE9A79"/><rect x="418" y="95" width="144" height="9" fill="#D97757"/><rect x="562" y="95" width="9" height="9" fill="#B0512F"/><rect x="409" y="104" width="9" height="9" fill="#EE9A79"/><rect x="418" y="104" width="144" height="9" fill="#D97757"/><rect x="562" y="104" width="9" height="9" fill="#B0512F"/><rect x="409" y="113" width="9" height="9" fill="#EE9A79"/><rect x="418" y="113" width="144" height="9" fill="#D97757"/><rect x="562" y="113" width="9" height="9" fill="#B0512F"/><rect x="409" y="122" width="9" height="9" fill="#EE9A79"/><rect x="418" y="122" width="144" height="9" fill="#D97757"/><rect x="562" y="122" width="9" height="9" fill="#B0512F"/><rect x="409" y="131" width="9" height="9" fill="#EE9A79"/><rect x="418" y="131" width="144" height="9" fill="#D97757"/><rect x="562" y="131" width="9" height="9" fill="#B0512F"/><rect x="409" y="140" width="162" height="9" fill="#B0512F"/><rect class="eye" x="391" y="95" width="18" height="27" fill="#8A3A1E"/><rect class="eye" x="571" y="95" width="18" height="27" fill="#8A3A1E"/><text class="sm" x="490" y="179" font-size="11" letter-spacing="1.5" fill="#AC9C91" text-anchor="middle">DESSUS</text><rect x="653" y="14" width="153" height="9" fill="#EE9A79"/><rect x="806" y="14" width="9" height="9" fill="#B0512F"/><rect x="653" y="23" width="9" height="9" fill="#EE9A79"/><rect x="662" y="23" width="144" height="9" fill="#D97757"/><rect x="806" y="23" width="9" height="9" fill="#B0512F"/><rect x="635" y="32" width="18" height="9" fill="#8A3A1E"/><rect x="653" y="32" width="9" height="9" fill="#EE9A79"/><rect x="662" y="32" width="144" height="9" fill="#D97757"/><rect x="806" y="32" width="9" height="9" fill="#B0512F"/><rect x="815" y="32" width="18" height="9" fill="#8A3A1E"/><rect x="635" y="41" width="18" height="9" fill="#8A3A1E"/><rect x="653" y="41" width="9" height="9" fill="#EE9A79"/><rect x="662" y="41" width="144" height="9" fill="#D97757"/><rect x="806" y="41" width="9" height="9" fill="#B0512F"/><rect x="815" y="41" width="18" height="9" fill="#8A3A1E"/><rect x="635" y="50" width="18" height="9" fill="#8A3A1E"/><rect x="653" y="50" width="9" height="9" fill="#EE9A79"/><rect x="662" y="50" width="144" height="9" fill="#D97757"/><rect x="806" y="50" width="9" height="9" fill="#B0512F"/><rect x="815" y="50" width="18" height="9" fill="#8A3A1E"/><rect x="653" y="59" width="9" height="9" fill="#EE9A79"/><rect x="662" y="59" width="144" height="9" fill="#D97757"/><rect x="806" y="59" width="9" height="9" fill="#B0512F"/><rect x="653" y="68" width="9" height="9" fill="#EE9A79"/><rect x="662" y="68" width="144" height="9" fill="#D97757"/><rect x="806" y="68" width="9" height="9" fill="#B0512F"/><rect x="653" y="77" width="9" height="9" fill="#EE9A79"/><rect x="662" y="77" width="144" height="9" fill="#D97757"/><rect x="806" y="77" width="9" height="9" fill="#B0512F"/><rect x="653" y="86" width="9" height="9" fill="#EE9A79"/><rect x="662" y="86" width="54" height="9" fill="#D97757"/><rect x="716" y="86" width="36" height="9" fill="#0E0906"/><rect x="752" y="86" width="54" height="9" fill="#D97757"/><rect x="806" y="86" width="9" height="9" fill="#B0512F"/><rect x="653" y="95" width="9" height="9" fill="#EE9A79"/><rect x="662" y="95" width="54" height="9" fill="#D97757"/><rect x="716" y="95" width="36" height="9" fill="#0E0906"/><rect x="752" y="95" width="54" height="9" fill="#D97757"/><rect x="806" y="95" width="9" height="9" fill="#B0512F"/><rect x="653" y="104" width="9" height="9" fill="#EE9A79"/><rect x="662" y="104" width="144" height="9" fill="#D97757"/><rect x="806" y="104" width="9" height="9" fill="#B0512F"/><rect x="653" y="113" width="162" height="9" fill="#B0512F"/><rect x="671" y="122" width="18" height="9" fill="#B0512F"/><rect x="698" y="122" width="18" height="9" fill="#B0512F"/><rect x="752" y="122" width="18" height="9" fill="#B0512F"/><rect x="779" y="122" width="18" height="9" fill="#B0512F"/><rect x="671" y="131" width="18" height="9" fill="#B0512F"/><rect x="698" y="131" width="18" height="9" fill="#B0512F"/><rect x="752" y="131" width="18" height="9" fill="#B0512F"/><rect x="779" y="131" width="18" height="9" fill="#B0512F"/><rect x="671" y="140" width="18" height="9" fill="#8A3A1E"/><rect x="698" y="140" width="18" height="9" fill="#8A3A1E"/><rect x="752" y="140" width="18" height="9" fill="#8A3A1E"/><rect x="779" y="140" width="18" height="9" fill="#8A3A1E"/><text class="px" x="734" y="68" font-size="7.65" fill="#A85A38" text-anchor="middle">IBURNED</text><text class="sm" x="734" y="179" font-size="11" letter-spacing="1.5" fill="#AC9C91" text-anchor="middle">DOS</text>
       </svg>
     </div>
   </section>
@@ -339,7 +339,7 @@
   <section class="section">
     <h3>La proportion</h3>
     <p class="kicker">
-      22 × 15 cellules, soit 97 × 66 mm hors tout, sur 62 mm de profondeur. Les quatre pattes sont réparties en
+      22 × 15 cellules, soit 97 × 66 mm hors tout, sur 40 mm de profondeur. Les quatre pattes sont réparties en
       miroir strict autour de l’axe — la paire extérieure en 4 et 16, la paire intérieure
       en 7 et 13 — avec le grand écart au milieu, comme sur le dessin d’origine.
       <strong>L’ergot droit est le bouton, et rien ne le dit</strong>&nbsp;: même largeur,
